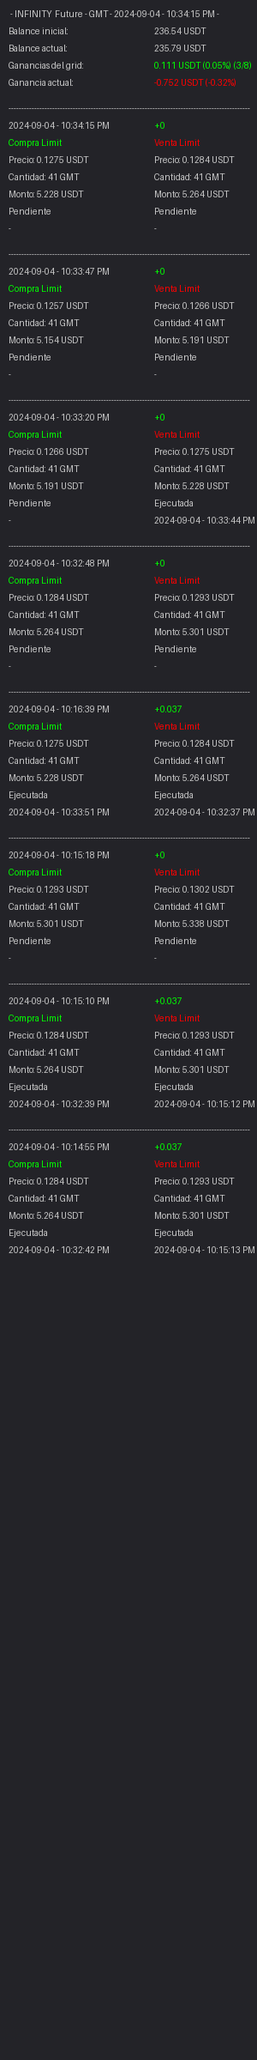
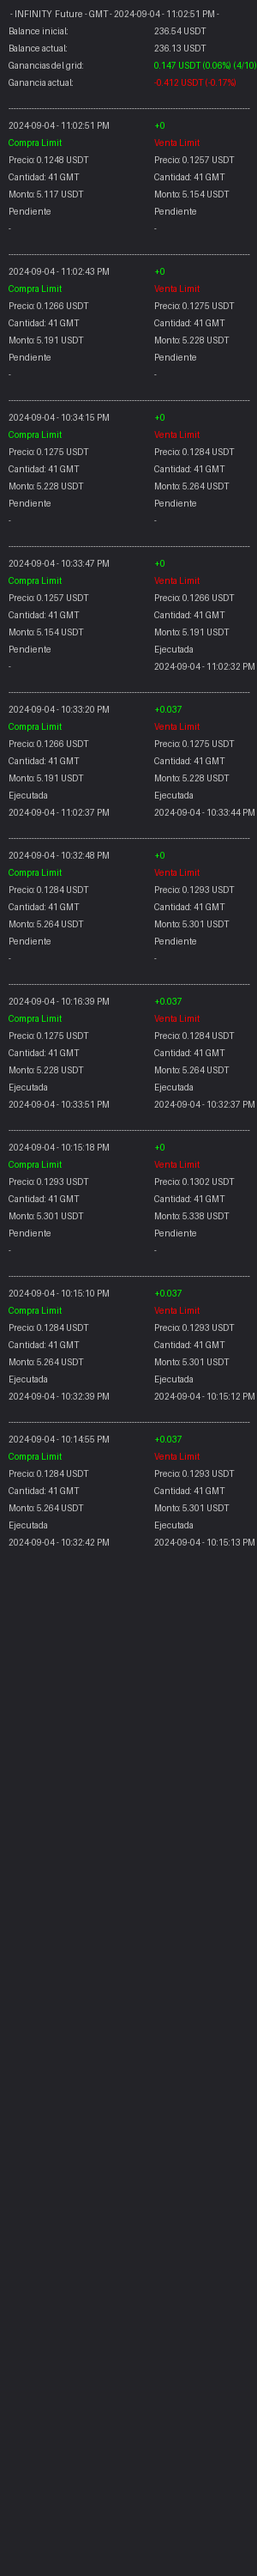
Cambio en bybit_ws

diff --git a/future/estrategias/infinity/infinity_2.0.py b/future/estrategias/infinity/infinity_2.0.py
@@ -397,9 +397,12 @@ def limpiar_listas():
                         
                         if ordenes_abiertas != []:
                             
+                            # Verificar si hay una orden limite
                             for orden in ordenes_abiertas:
                                 if 0.999*pareja['compra']['price'] <= float(orden['price']) <= 1.001*pareja['compra']['price'] and orden['positionIdx'] == 1 and orden['side'] == "Buy":
                                     orden_puesta = True
+                                
+                                # Verificar si hay una orden condicional
                                 if orden['triggerPrice'] != "":
                                     if 0.999*pareja['compra']['price'] <= float(orden['triggerPrice']) <= 1.001*pareja['compra']['price'] and orden['positionIdx'] == 1 and orden['side'] == "Buy":
                                         orden_puesta = True
@@ -440,9 +443,12 @@ def limpiar_listas():
                         
                         if ordenes_abiertas != []:
                             
+                            # Verificar si hay una orden limite
                             for orden in ordenes_abiertas:
                                 if 0.999*pareja['venta']['price'] <= float(orden['price']) <= 1.001*pareja['venta']['price'] and orden['positionIdx'] == 2 and orden['side'] == "Sell":
                                     orden_puesta = True
+                                
+                                # Verificar si hay una orden condicional
                                 if orden['triggerPrice'] != "":
                                     if 0.999*pareja['venta']['price'] <= float(orden['triggerPrice']) <= 1.001*pareja['venta']['price'] and orden['positionIdx'] == 2 and orden['side'] == "Sell":
                                         orden_puesta = True
@@ -898,7 +904,7 @@ def mostrar_lista(data):
     try:
 
         # Crear una imagen en blanco
-        img_width, img_height = 300, 300*len(data)
+        img_width, img_height = 450, 300*len(data)
         background_color = (35, 35, 40)
         text_color = (200, 200, 200)
         greenlight_color = (0, 255, 0)

diff --git a/future/estrategias/infinity/bybit_ws.py b/future/estrategias/infinity/bybit_ws.py
@@ -25,6 +25,7 @@ def precio_actual_activo(symbol):
                 print(json.dumps(data_precio_actual,indent=2))
 
         def on_close(ws, close_status_code, close_msg):
+            global precio_actual
             print("### WS BYBIT: Precio actual Cerrado ###")
             precio_actual = 0
 
